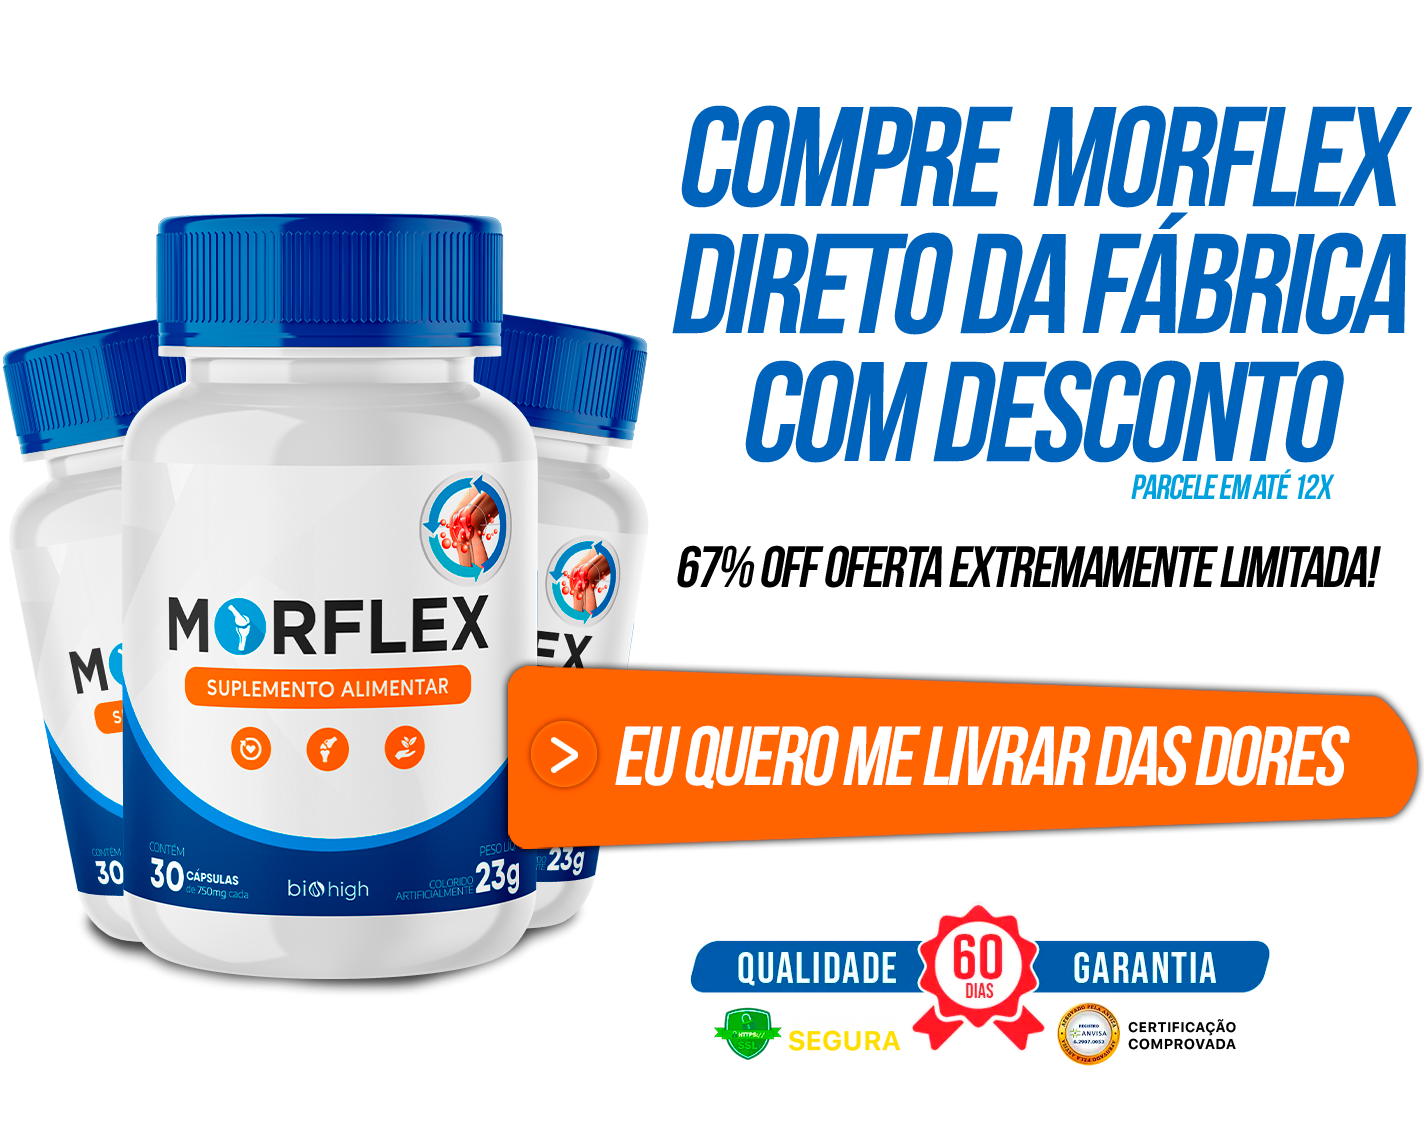
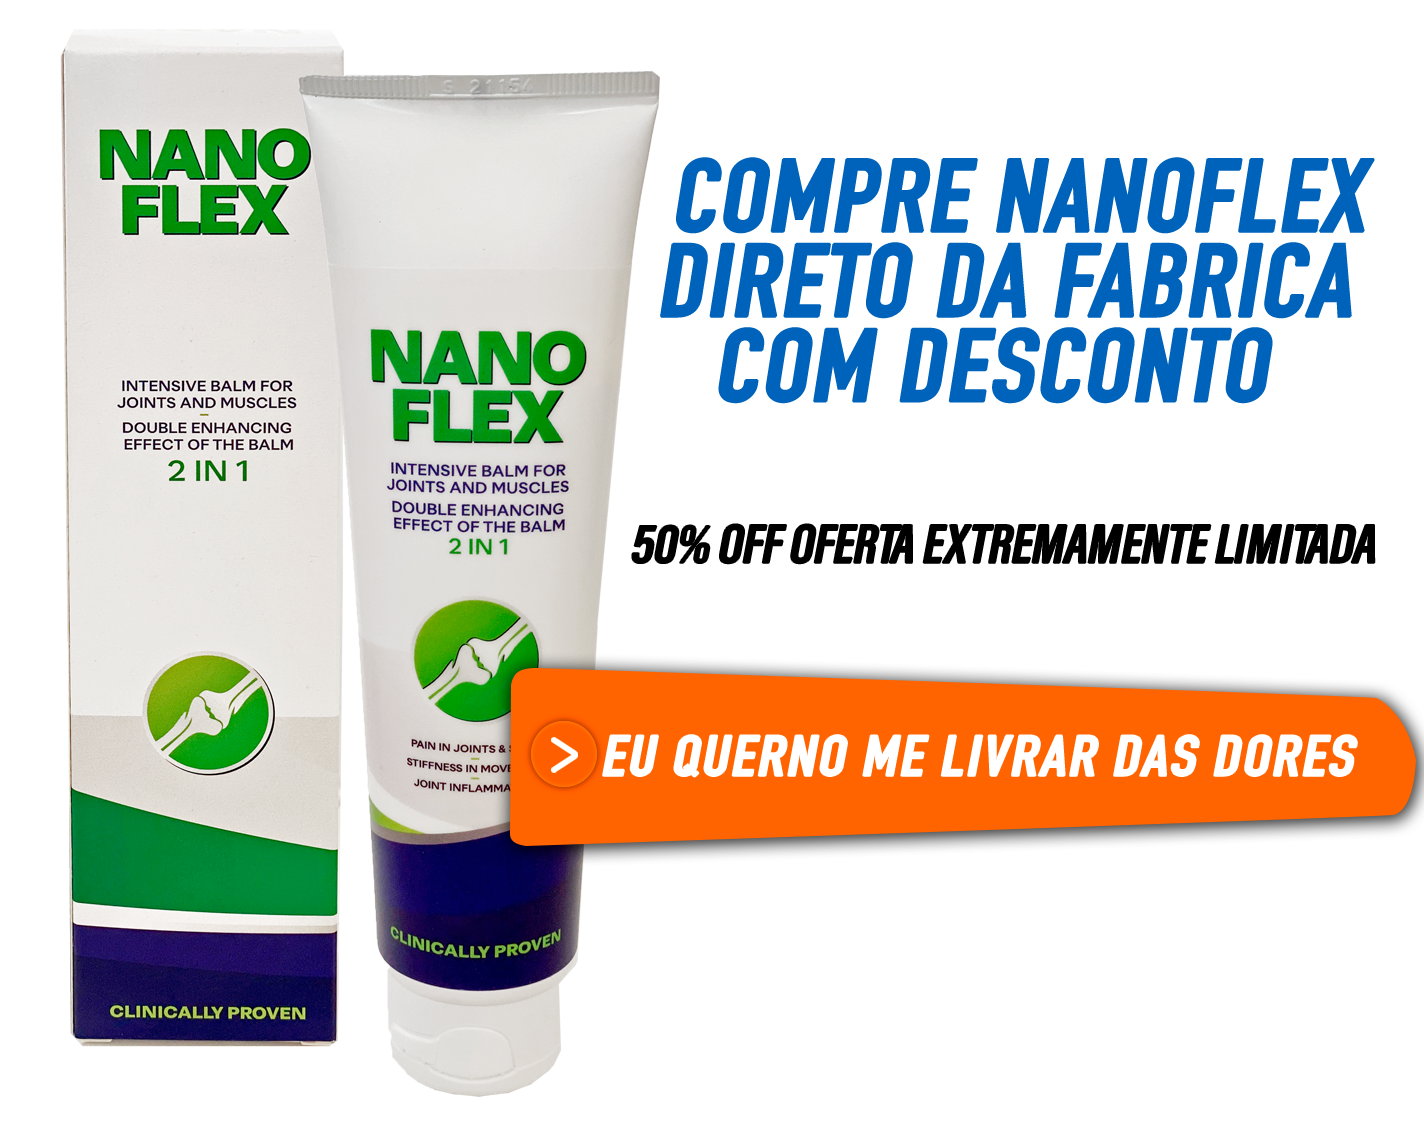
update

diff --git a/p315-nanoflex-offer/pt/index.html b/p315-nanoflex-offer/pt/index.html
@@ -23,7 +23,8 @@
     <div id="article">
         <p style="font-size: 17px"><span style="color:#464646">RTP > Jornalismo > Saúde ></span></p>
 
-        <h1><span>Exclusívo:</span> 1 Pílula Disto Pode Eliminar Todas as Dores Articulares e Curar Artrite, Artrose e
+        <h1><span>Exclusívo:</span> 1 Utilização Deste Creme Pode Eliminar Todas as Dores Articulares e Curar Artrite,
+            Artrose e
             Osteoporose</h1>
 
         <h2>Veja como o Sílvio Santos, 91 anos, recuperou completamente seus movimentos, e se livrou de todas dores
@@ -31,27 +32,25 @@
 
         <img style="margin-top: 10px; margin-bottom: 15px; max-width: 100%" src="images/share.png">
 
-        <p style="text-align: justify;">Como cerca de 30 milhões de brasileiros, Sílvio Santos, 91 anos, sofria com
+        <p style="text-align: justify;">Como cerca de 2 milhões de portugueses, Sílvio Santos, 91 anos, sofria com
             artrite, artrose e osteoporose. Hoje, Sílvio Santos diz que sua vida é tão boa quanto no auge dos seus 18
             anos.</p>
 
-        <a target="_blank" href="https://desconto.morflex.com.br/?p=hs&sub1="> <img src="images/silvio.jpg"
-                class="img"></a>
+        <a target="_blank" href="{offer}"> <img src="images/silvio.jpg" class="img"></a>
 
         <br>
-        <p style="text-align: justify;">Sílvio tentou cirurgias e Parecetamol para tratar suas dores, mas sem sucesso.
+        <p style="text-align: justify;">Sílvio tentou cirurgias e Paracetamol para tratar suas dores, mas sem sucesso.
             <strong>Na verdade teve resultados opostos</strong>, à longo prazo ele perdia parte dos movimentos e ficava
             cada vez mais limitado por conta dos efeitos colaterais do remédio.</p>
 
         <p style="text-align: justify;">Sílvio revela que chegou a andar de cadeira de rodas, devido ao risco de queda e
             as dores constantes.</p>
 
-        <p style="text-align: justify;">Milhares de Brasileiros têm queixas semelhantes. Em um estudo recente nos EUA,
+        <p style="text-align: justify;">Milhares de portugueses têm queixas semelhantes. Em um estudo recente nos EUA,
             homens e mulheres acima de 40 anos que usam Parecatamol há 5 anos ou mais, mostra que 70% teve câncer no
             fígado e sofrem de perda de memória.</p>
 
-        <a target="_blank" href="https://desconto.morflex.com.br/?p=hs&sub1="> <img src="images/segunda.png"
-                class="img"></a>
+        <a target="_blank" href="{offer}"> <img src="images/segunda.png" class="img"></a>
 
         <p style="text-align: justify;">Determinado a encontrar uma solução, Sílvio pesquisou diversos tratamentos...
         </p>
@@ -63,11 +62,10 @@
             Trindade.</p>
 
 
-        <a target="_blank" href="https://desconto.morflex.com.br/?p=hs&sub1="> <img src="images/doctor.png"
-                class="img"></a>
+        <a target="_blank" href="{offer}"> <img src="images/doctor.png" class="img"></a>
 
         <p style="text-align: justify;">Dr. Paulo Trindade revela que à algum tempo ele vem indicando um <a
-                target="_blank" href="https://desconto.morflex.com.br/?p=hs&sub1="><strong>suplemento totalmente
+                target="_blank" href="{offer}"><strong>suplemento totalmente
                     natural<strong></strong></strong></a> para seus pacientes e tem tido excelentes resultados.</p>
 
         <p style="text-align: justify;">Dr. comprova esses resultados mostrando um teste clínico feito em 22.900 homens
@@ -75,10 +73,10 @@
                 de todas as dores.</strong></p>
 
 
-        <a target="_blank" href="https://desconto.morflex.com.br/?p=hs&sub1="> <img src="images/13.gif" class="img"></a>
+        <a target="_blank" href="{offer}"> <img src="images/13.gif" class="img"></a>
 
         <p style="text-align: justify;">Suplemento natural conhecido como <a target="_blank"
-                href="https://desconto.morflex.com.br/?p=hs&sub1=">Morflex</a>, tem sua tecnologia patenteada TRTT, que
+                href="{offer}">Nanoflex</a>, tem sua tecnologia patenteada TRTT, que
             torna esses ingredientes absorvidos 185 vezes mais potentes do que os tradicionais. São indicados para quem
             sofre de:</p>
 
@@ -93,7 +91,7 @@
         <h3>Por Que Sílvio Santos fala sobre isso abertamente?</h3>
         <br>
 
-        <a target="_blank" href="https://desconto.morflex.com.br/?p=hs&sub1=">
+        <a target="_blank" href="{offer}">
             <img src="images/filhas.jpeg" class="img"></a>
 
         <p style="text-align: justify;">Em depoimento, Sílvio Santos afirma querer ajudar outras pessoas. Veja abaixo:
@@ -101,7 +99,7 @@
 
         <blockquote>
 
-            <p class="m-t-25">"<em>Os meus resultados foram impressionantes, 1 dia após tomar a primeira cápsula,
+            <p class="m-t-25">"<em>Os meus resultados foram impressionantes, 1 dia após a primeira utilização,
                     <strong>já consegui me movimentar super melhor, e as dores sumiram parcialmente.</strong></em></p>
 
             <p class="m-t-25"><em>Minhas filhas ficaram surpresas, depois de anos, eu finalmente podia deixar elas sem
@@ -116,16 +114,15 @@
             <p class="m-t-25"><em>Diante de tudo isso, eu me senti na obrigação de ajudar outras pessoas. Não pude ser
                     egoísta.</em></p>
 
-            <p class="m-t-25"><em><a target="_blank"
-                        href="https://desconto.morflex.com.br/?p=hs&sub1="><strong>Morflex</strong></a> vai transformar
+            <p class="m-t-25"><em><a target="_blank" href="{offer}"><strong>Nanoflex</strong></a> vai transformar
                     a vida de cada pessoa que o tomar todos os dias. Vale cada centavo. <strong>Se eu soubesse dos
-                        resultados, pagaria até 10 vezes mais.</strong></em>" - Sívio Santos com exclusividade ao SBT.
+                        resultados, pagaria até 10 vezes mais.</strong></em>" - Sívio Santos com exclusividade ao RTP.
             </p>
 
         </blockquote>
 
 
-        <a target="_blank" href="https://desconto.morflex.com.br/?p=hs&sub1=">
+        <a target="_blank" href="{offer}">
             <img src="images/20.png" style="width: 100%">
 
         </a>
@@ -135,29 +132,23 @@
         <h3>Depoimentos de quem usa</h3><br><br>
         <div id="fb-root"></div>
         <script async="1" defer="1" crossorigin="anonymous" src="js/sdk.js#xfbml=1&amp;version=v4.0"></script>
-        <div class="fb-post" data-href="https://www.facebook.com/alessandra.deoliveiradasilva.39/posts/296878799033951"
-            data-width="auto">
-            <blockquote cite="https://www.facebook.com/alessandra.deoliveiradasilva.39/posts/296878799033951"
-                class="fb-xfbml-parse-ignore">
-                <p>Comprei o Morflex para minha mãe que sofria muito com articulações, isto tirou as dores com a mão...
-                    mto bom, com certeza voltarei a comprar!!</p>Posted by <a
-                    href="https://www.facebook.com/alessandra.deoliveiradasilva.39/posts/296878799033951">Djonatan
-                    Silva</a> on&nbsp;<a
-                    href="https://www.facebook.com/alessandra.deoliveiradasilva.39/posts/296878799033951">Sunday,
+        <div class="fb-post" data-href="{offer}" data-width="auto">
+            <blockquote class="fb-xfbml-parse-ignore">
+                <p>Comprei o Nanoflex para minha mãe que sofria muito com articulações, isto tirou as dores com a mão...
+                    mto bom, com certeza voltarei a comprar!!</p>Posted by <a target="_blank" href="{offer}">Djonatan
+                    Silva</a> on&nbsp;<a target="_blank" href="{offer}" class="dadata">Sunday,
                     October 13, 2019</a>
             </blockquote>
         </div><br><br>
 
         <div id="fb-root"></div>
         <script async="1" defer="1" crossorigin="anonymous" src="js/sdk.js#xfbml=1&amp;version=v4.0"></script>
-        <div class="fb-post" data-href="https://www.facebook.com/daniela.ribeirodenegreiros/posts/304427094936888"
-            data-width="auto">
-            <blockquote cite="https://www.facebook.com/daniela.ribeirodenegreiros/posts/304427094936888"
-                class="fb-xfbml-parse-ignore">
+        <div class="fb-post" data-href="{offer}" data-width="auto">
+            <blockquote class="fb-xfbml-parse-ignore">
                 <p>O link do site oficial está no artigo, é melhor não pedir em nenhum outro lugar, devido ao sucesso,
-                    tem muito lugar que falsifica o Morflex</p>Posted by <a
-                    href="https://www.facebook.com/daniela.ribeirodenegreiros/posts/304427094936888">Bruno Silva</a>
-                on&nbsp;<a href="https://www.facebook.com/daniela.ribeirodenegreiros/posts/304427094936888">Sunday,
+                    tem muito lugar que falsifica o Nanoflex</p>Posted by <a target="_blank" href="{offer}">Bruno
+                    Silva</a>
+                on&nbsp;<a target="_blank" href="{offer}" class="dadata">Sunday,
                     October 13, 2019</a>
             </blockquote>
         </div>
@@ -165,14 +156,12 @@
 
         <div id="fb-root"></div>
         <script async="1" defer="1" crossorigin="anonymous" src="js/sdk.js#xfbml=1&amp;version=v4.0"></script>
-        <div class="fb-post" data-href="https://www.facebook.com/valdemir.alvesdelima.75/posts/290599696359738"
-            data-width="auto">
-            <blockquote cite="https://www.facebook.com/valdemir.alvesdelima.75/posts/290599696359738"
-                class="fb-xfbml-parse-ignore">
-                <p>Morflex foi uma bênção na vida dos meus avós, compramos logo o kit com várias unidades pra eles 🙏
-                    Obrigada Silvio, por compartilhar isto com a gente...</p>Posted by <a
-                    href="https://www.facebook.com/valdemir.alvesdelima.75/posts/290599696359738">Bruno Silva</a>
-                on&nbsp;<a href="https://www.facebook.com/valdemir.alvesdelima.75/posts/290599696359738">Sunday, October
+        <div class="fb-post" data-href="{offer}" data-width="auto">
+            <blockquote class="fb-xfbml-parse-ignore">
+                <p>Nanoflex foi uma bênção na vida dos meus avós, compramos logo o kit com várias unidades pra eles 🙏
+                    Obrigado Silvio, por compartilhar isto com a gente...</p>Posted by <a target="_blank"
+                    href="{offer}">Bruno Silva</a>
+                on&nbsp;<a target="_blank" href="{offer}" class="dadata">Sunday, October
                     13, 2019</a>
             </blockquote>
         </div>
@@ -180,38 +169,33 @@
 
         <div id="fb-root"></div>
         <script async="1" defer="1" crossorigin="anonymous" src="js/sdk.js#xfbml=1&amp;version=v4.0"></script>
-        <div class="fb-post"
-            data-href="https://www.facebook.com/permalink.php?story_fbid=353456113330979&id=100059997796582"
-            data-width="auto">
-            <blockquote cite="https://www.facebook.com/permalink.php?story_fbid=353456113330979&id=100059997796582"
-                class="fb-xfbml-parse-ignore">
+        <div class="fb-post" data-href="{offer}" data-width="auto">
+            <blockquote class="fb-xfbml-parse-ignore">
                 <p>Eu não vou falar nada, apenas vejam a foto do antes e depois dos meu avô:</p>Posted by <a
-                    href="https://www.facebook.com/permalink.php?story_fbid=353456113330979&id=100059997796582">Paulo
-                    Sergio De Souza</a> on&nbsp;<a
-                    href="https://www.facebook.com/permalink.php?story_fbid=353456113330979&id=100059997796582">Sunday,
+                    target="_blank" href="{offer}">Paulo
+                    Sergio De Souza</a> on&nbsp;<a target="_blank" href="{offer}" class="dadata">Sunday,
                     October 13, 2019</a>
             </blockquote>
         </div>
         <br>
-        <h3>Excelente Notícia para Leitores do SBT</h3>
+        <h3>Excelente Notícia para Leitores do RTP</h3>
 
-        <p style="text-align: justify;margin-top: 20px">O fabricante do <a target="_blank"
-                href="https://desconto.morflex.com.br/?p=hs&sub1=">Morflex</a> entrou em contato com nosso reportagem e
+        <p style="text-align: justify;margin-top: 20px">O fabricante do <a target="_blank" href="{offer}">Nanoflex</a>
+            entrou em contato com nosso reportagem e
             disponibilizou <span style="font-weight:700; background-color: red; color: white"> 1743 potes</span> para
             nossos leitores antes que acabe o estoque.</p>
 
 
 
-        <p>Morflex é um suplemento natural, sem efeitos colaterais e aprovado pela ANVISA.</p>
+        <p>Nanoflex é um suplemento natural, sem efeitos colaterais e aprovado pela ASAE.</p>
 
-        <p>Para garantir o seu, basta acessar o <a target="_blank"
-                href="https://desconto.morflex.com.br/?p=hs&sub1=">site oficial do fabricante</a>.</p>
+        <p>Para garantir o seu, basta acessar o <a target="_blank" href="{offer}">site oficial do fabricante</a>.</p>
 
-        <a target="_blank" href="https://desconto.morflex.com.br/?p=hs&sub1=">
-            <img src="images/potemorflex.png" style="margin:auto; display: block; width: 200px">
+        <a target="_blank" href="{offer}">
+            <img src="images/product.png" style="margin:auto; display: block; width: 200px">
             <img src="images/botao.png"
                 style="margin:auto; display: block; max-width: 500px; width: 100%; margin-bottom: 10px"></a>
-        <p style="text-align: center;">(Últimos potes disponíveis!)</p>
+        <p style="text-align: center;">(Últimos pacotes disponíveis!)</p>
 
 
 
@@ -220,8 +204,8 @@
 
 
     <div id="footer">
-        <img style="float:right; margin-right: 30px" class="logo" src="images/logo-sbt.png">
-        <p style="text-align: right; float: left; margin-top: 20px; margin-left: 30px"><strong>SBT</strong> Copyright ©
+        <img style="float:right; margin-right: 30px" class="logo" src="images/logo.png">
+        <p style="text-align: right; float: left; margin-top: 20px; margin-left: 30px"><strong>RTP</strong> Copyright ©
             <script type="text/javascript">
                 document.write(new Date().getFullYear())
             </script>
@@ -501,9 +485,12 @@
         var mm = String(today.getMonth() + 1).padStart(2, '0'); //January is 0!
         var yyyy = today.getFullYear();
 
-        today = dd + '/' + mm + '/' + yyyy;
-
-        document.getElementById('dadata').innerHTML = today;
+        today = dd + '.' + mm + '.' + yyyy;
+        if (document.querySelectorAll('.dadata')) {
+            document.querySelectorAll('.dadata').forEach(item => {
+                item.innerHTML = today;
+            })
+        }
     </script>
 
 
